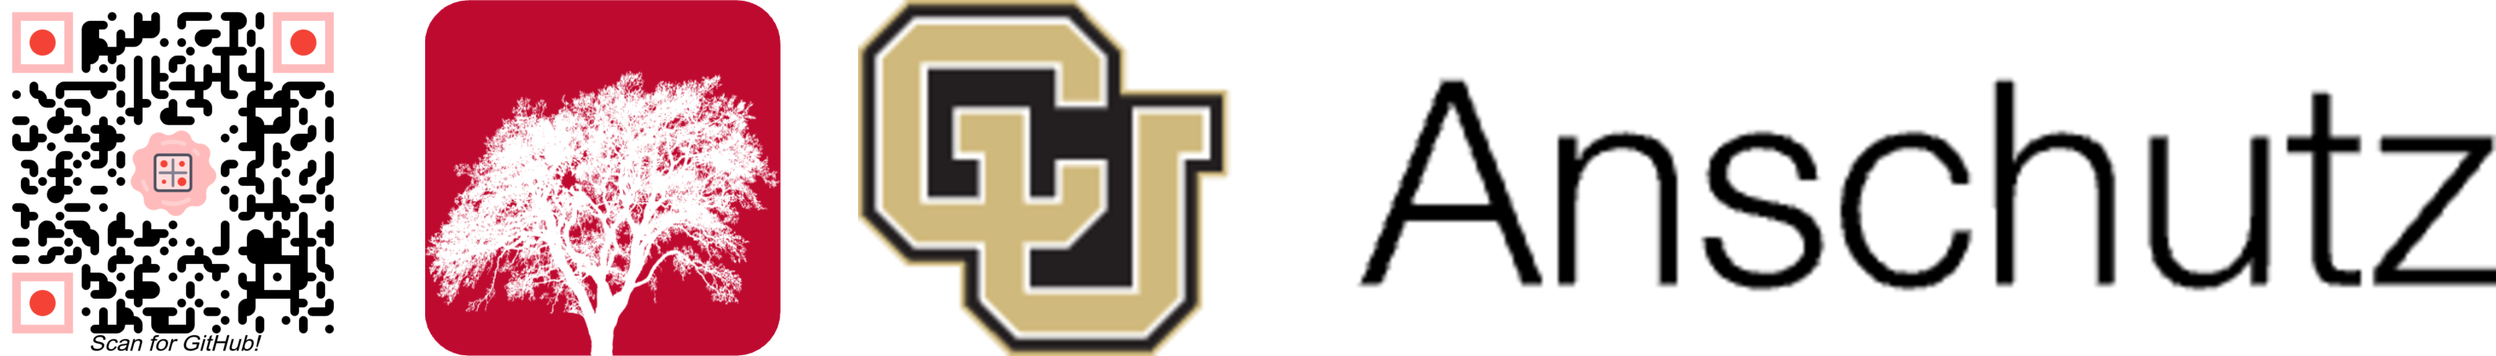
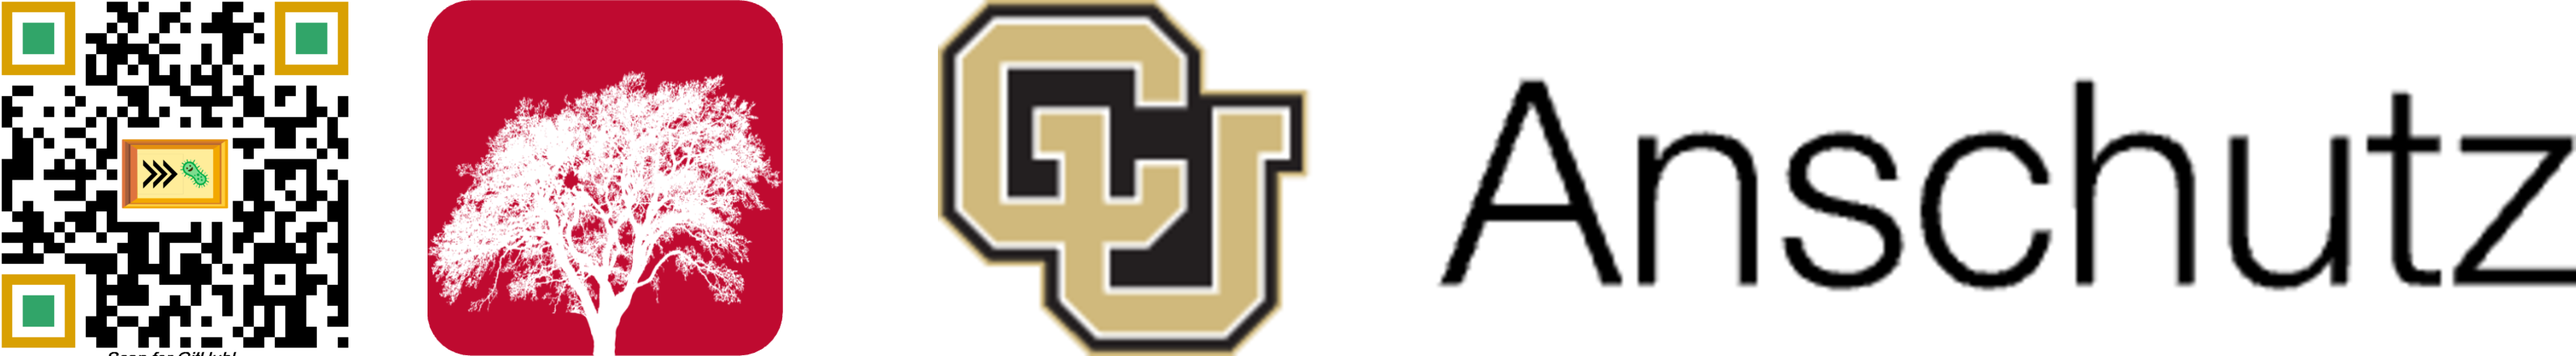
header work

diff --git a/docs/presentations/2026-OME-community-meeting/readme.md b/docs/presentations/2026-OME-community-meeting/readme.md
@@ -31,17 +31,17 @@ uv run poe poster-render
 
 ```shell
 # append text to qr codes
-magick images/cytodataframe-qr.png -gravity South -background transparent -splice 0x15 -pointsize 40 -font Arial -weight Bold -annotate 0x15 'Scan for GitHub!' images/sga-qr-text.png
+magick images/ome-arrow-qr.png -gravity South -background transparent -splice 0x15 -pointsize 40 -font Arial -weight Bold -annotate 0x15 'Scan for GitHub!' images/ome-arrow-qr-text.png
 
 # create a transparent spacer
 magick -size 100x460 xc:transparent images/spacer.png
 
-magick images/sga-qr-text.png -resize x460 images/sga-qr-text.png
+magick images/ome-arrow-qr-text.png -resize x460 images/ome-arrow-qr-text.png
 magick images/bssw-logo-w-background.png -resize x460 images/bssw-logo-w-background.png
 magick images/sustainable-horizons-institute-logo.png -resize x460 images/sustainable-horizons-institute-logo.png
 magick images/cu-anschutz-short.png -resize x460 images/cu-anschutz-short.png
 # combine the images together as one using the spacer for separation
-magick -background none images/sga-qr-text.png images/spacer.png images/bssw-logo-w-background.png images/spacer.png images/sustainable-horizons-institute-logo.png images/spacer.png images/cu-anschutz-short.png +append images/header-combined-images.png
+magick -background none images/ome-arrow-qr-text.png images/spacer.png images/bssw-logo-w-background.png images/spacer.png images/sustainable-horizons-institute-logo.png images/spacer.png images/cu-anschutz-short.png +append images/header-combined-images.png
 
 # convert the poster pdf to png and jpg with 150 dpi and a white background
 magick -antialias -density 300 -background white -flatten poster.pdf poster.png
